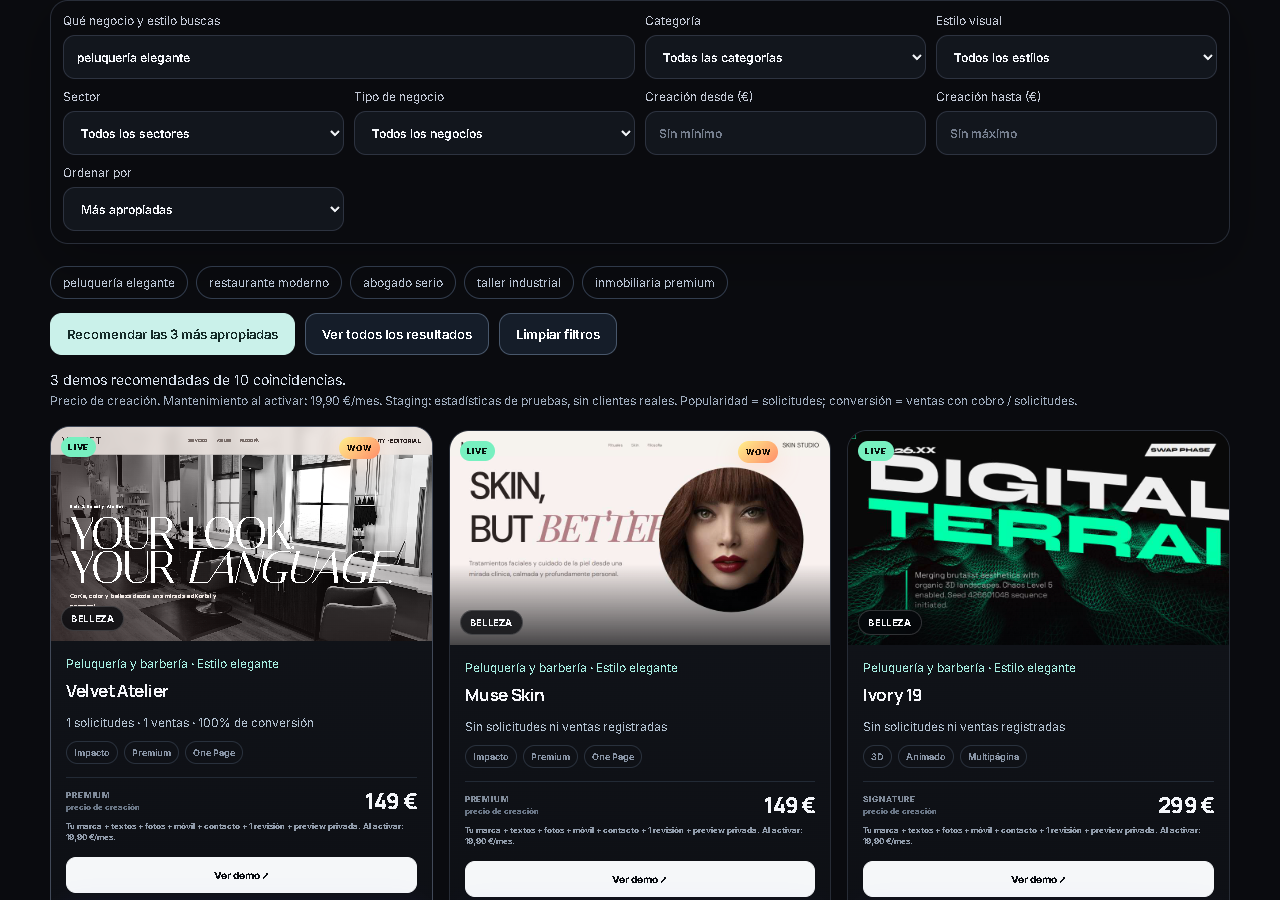
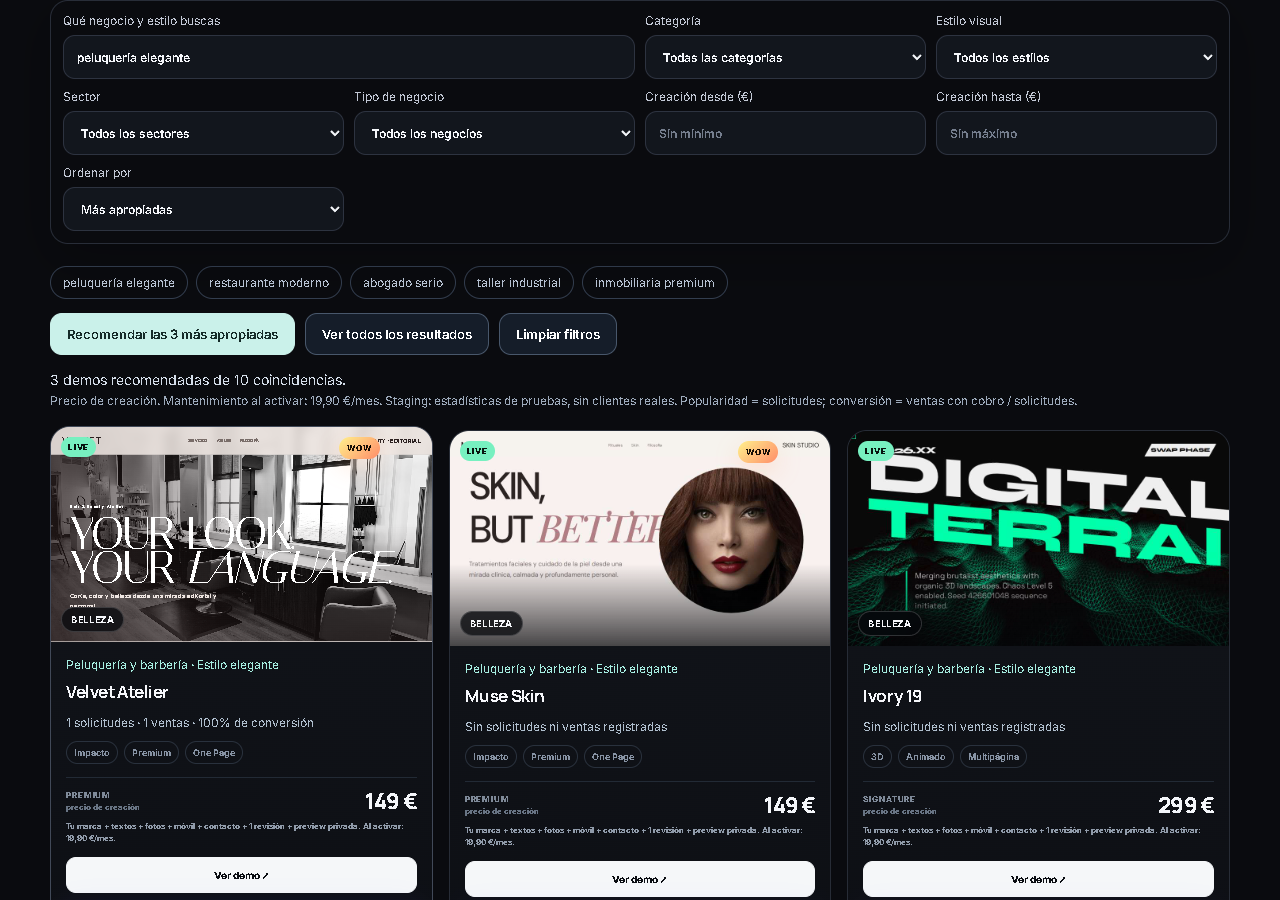
docs: verify final search layout on isolated staging

diff --git a/docs/ROADMAP-V2-FASE-2.md b/docs/ROADMAP-V2-FASE-2.md
@@ -1,12 +1,14 @@
 # Fase 2 — búsqueda comercial del Catálogo
 
-Revisión del 28/09/2026. Rama: `agent/catalog-roadmap-v2-safe`. Código: `c2371a3`, ajuste de legibilidad `926e684`.
+Revisión del 28/09/2026. Rama: `agent/catalog-roadmap-v2-safe`. Código: `c2371a3`, ajustes de legibilidad y posición de filtros `926e684` y `916090f`.
 
 ## Cambios
 
 La biblioteca permite combinar texto, categoría, sector, tipo de negocio, estilo visual y rango de precio de creación. Normaliza acentos, mayúsculas y equivalencias: peluquería/barbería, abogado/bufete, taller/automoción, elegante/premium y serio/sobrio, entre otras. El tipo de negocio agrupa afinidades editoriales a partir de la categoría existente; no representa una clasificación nueva basada en inspeccionar cada demo.
 
 Ordena por adecuación, solicitudes, ventas, conversión, incorporación registrada y precio ascendente/descendente. El botón de recomendación devuelve hasta tres coincidencias respetando todos los filtros. Si solo hay dos, explica que no existen tres. Las consultas sin coincidencias no se rellenan con resultados inventados. Conserva los criterios existentes de selección de demos y los enlaces a demo y solicitud.
+
+Los filtros aparecen antes de la selección destacada de la biblioteca. Al buscar o filtrar se oculta esa selección editorial, de forma que las coincidencias aparecen inmediatamente debajo de los controles; al limpiar los filtros vuelve a mostrarse.
 
 Las estadísticas públicas solo contienen agregados de solicitudes, ventas y conversión. La facturación por diseño se consulta con sesión administrativa en CRM → Analítica → Rendimiento por diseño. Hay buscador, ordenación y paginación visual de la tabla.
 
@@ -60,8 +62,7 @@ Servicio: `catalogo-staging-v2`, ID `2b7b78ca-0cb9-43ae-b6cc-4ee77b1015a1`, proy
 
 - [Búsqueda de staging](https://catalogo-staging-v2-production.up.railway.app/#biblioteca).
 - [CRM de staging](https://catalogo-staging-v2-production.up.railway.app/crm), con su contraseña propia en Railway (`CATALOG_CRM_PASSWORD`).
-- Despliegue funcional revisado `65e2a708-af77-49e9-8069-2707b2227e13`: SUCCESS, healthcheck aprobado, Stripe `sandbox_test`, bridge listo.
-- Último despliegue `c1c44c50-14c6-42f7-bbd2-c4acf1ef893d`: SUCCESS. Health HTTP 200, 571 diseños registrados, endpoint privado HTTP 401 sin sesión y logs de arranque sin errores. El CRM muestra el porcentaje y su denominador en líneas separadas.
+- Último despliegue `1ec347d6-1965-47b6-8611-fbf1e20b3084`: SUCCESS. Healthcheck aprobado, 571 diseños registrados, endpoint privado HTTP 401 sin sesión y logs de arranque sin errores, Stripe `sandbox_test` y bridge listo. El CRM muestra el porcentaje y su denominador en líneas separadas. En un navegador nuevo se comprobó que los filtros preceden a los destacados y que estos se ocultan al mostrar tres recomendaciones.
 - Checksums de `001_subscription_management.sql` y `002_catalog_discovery.sql` contrastados contra la base de staging: PASS. Inventario inicial: 571 diseños y 0 fechas históricas inventadas.
 
 Las pruebas utilizaron exclusivamente la base separada, clientes sintéticos y Stripe TEST. TuNegocio y sus cancelaciones no han requerido cambios en esta fase. El checkout original de NoeApps sigue limpio en main.
